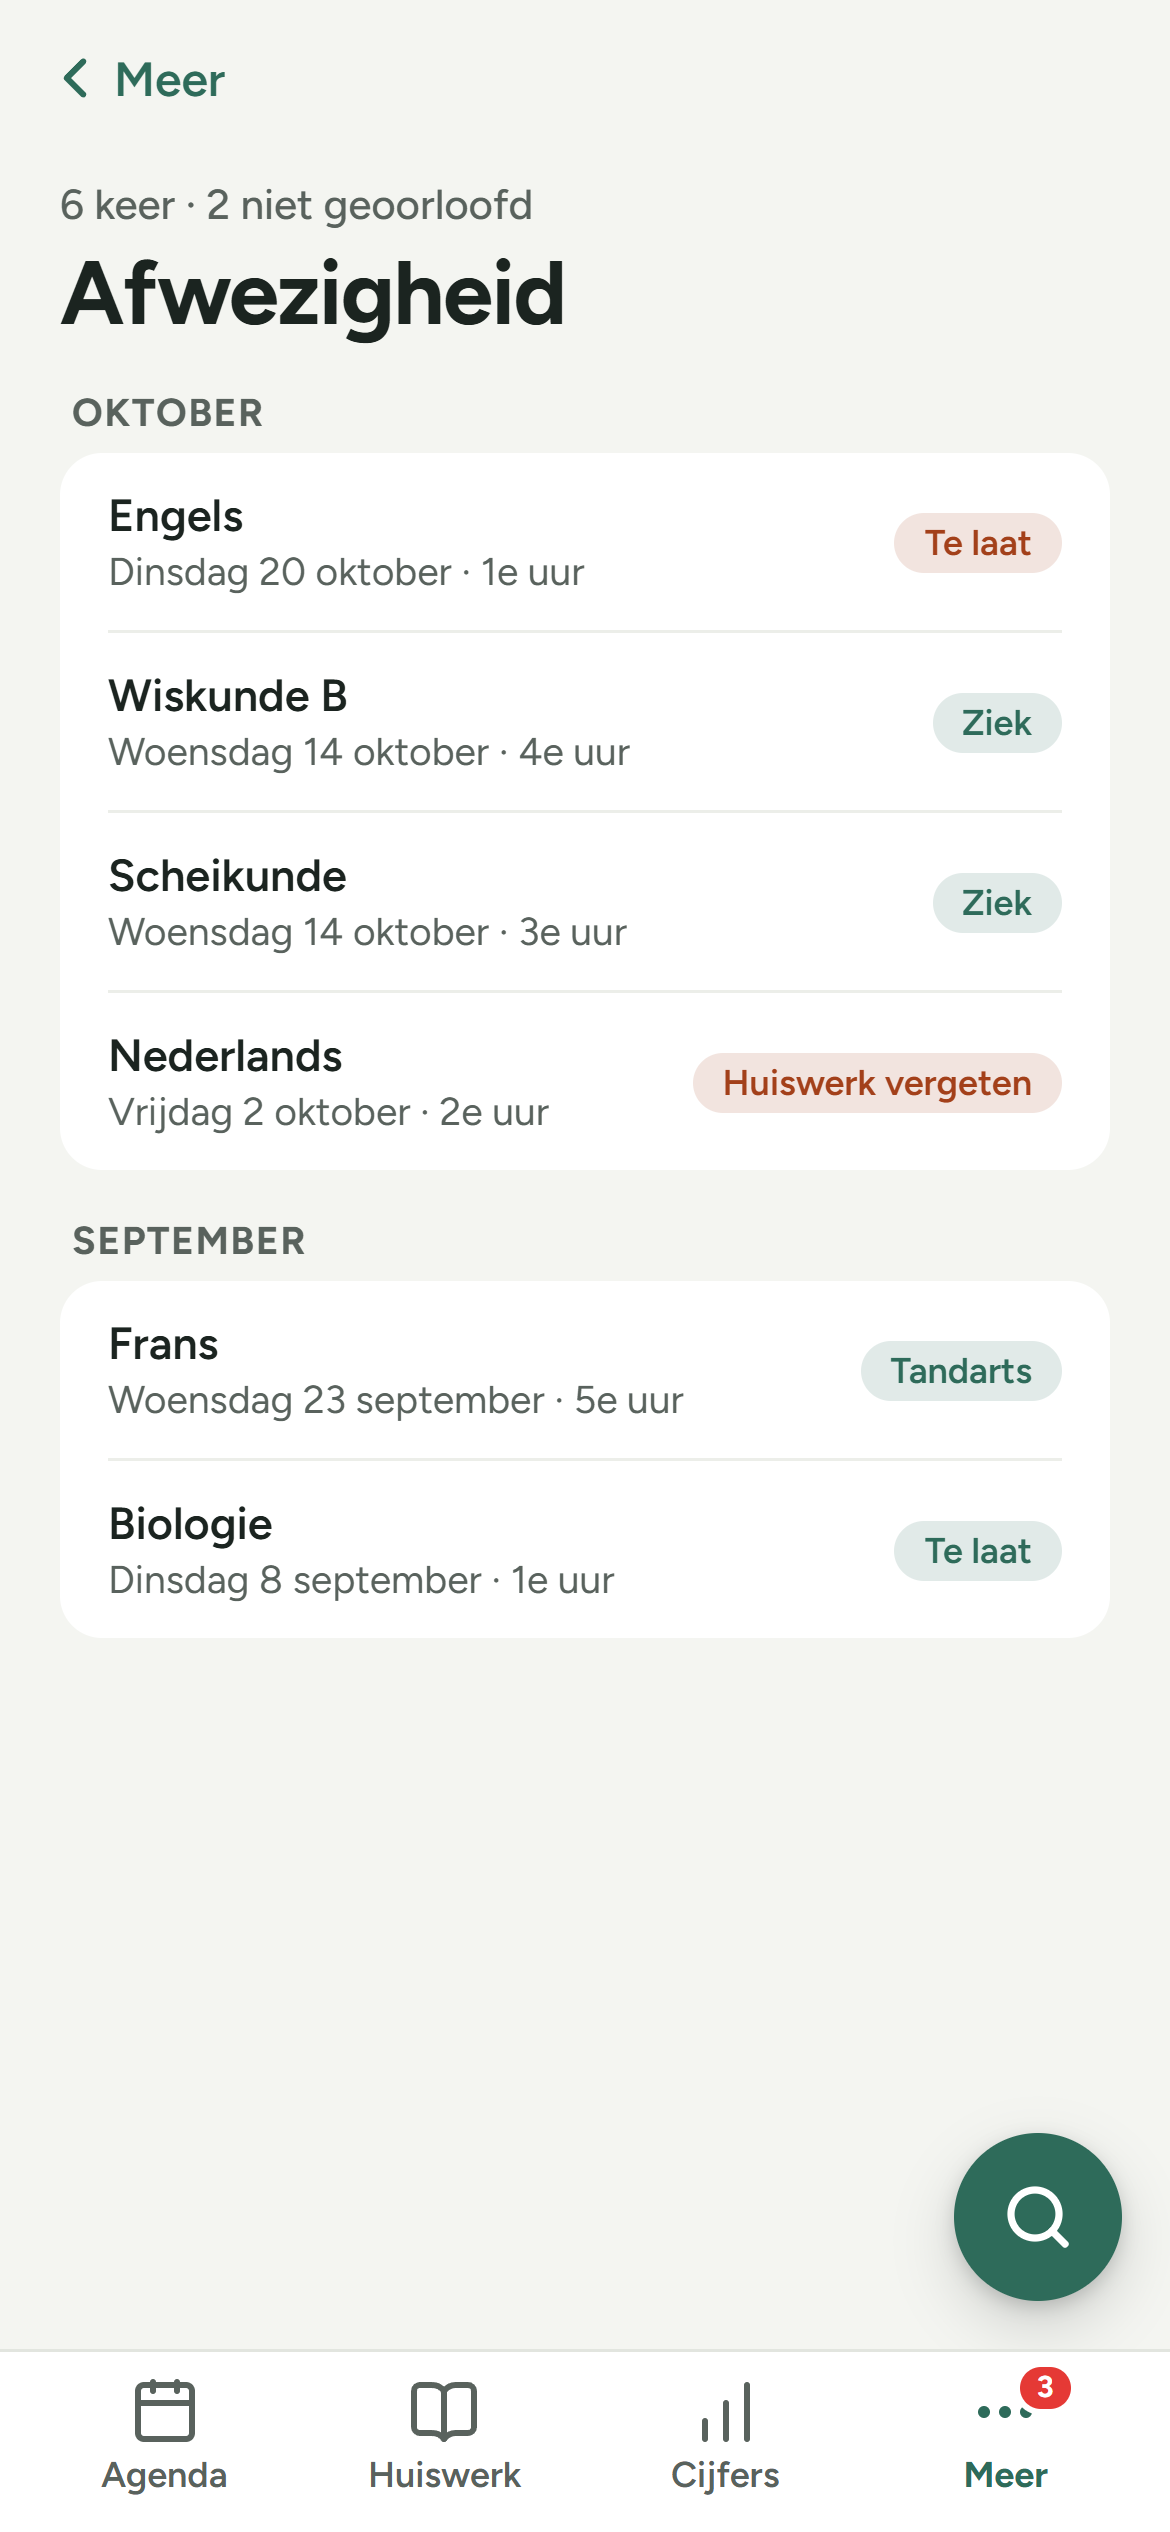
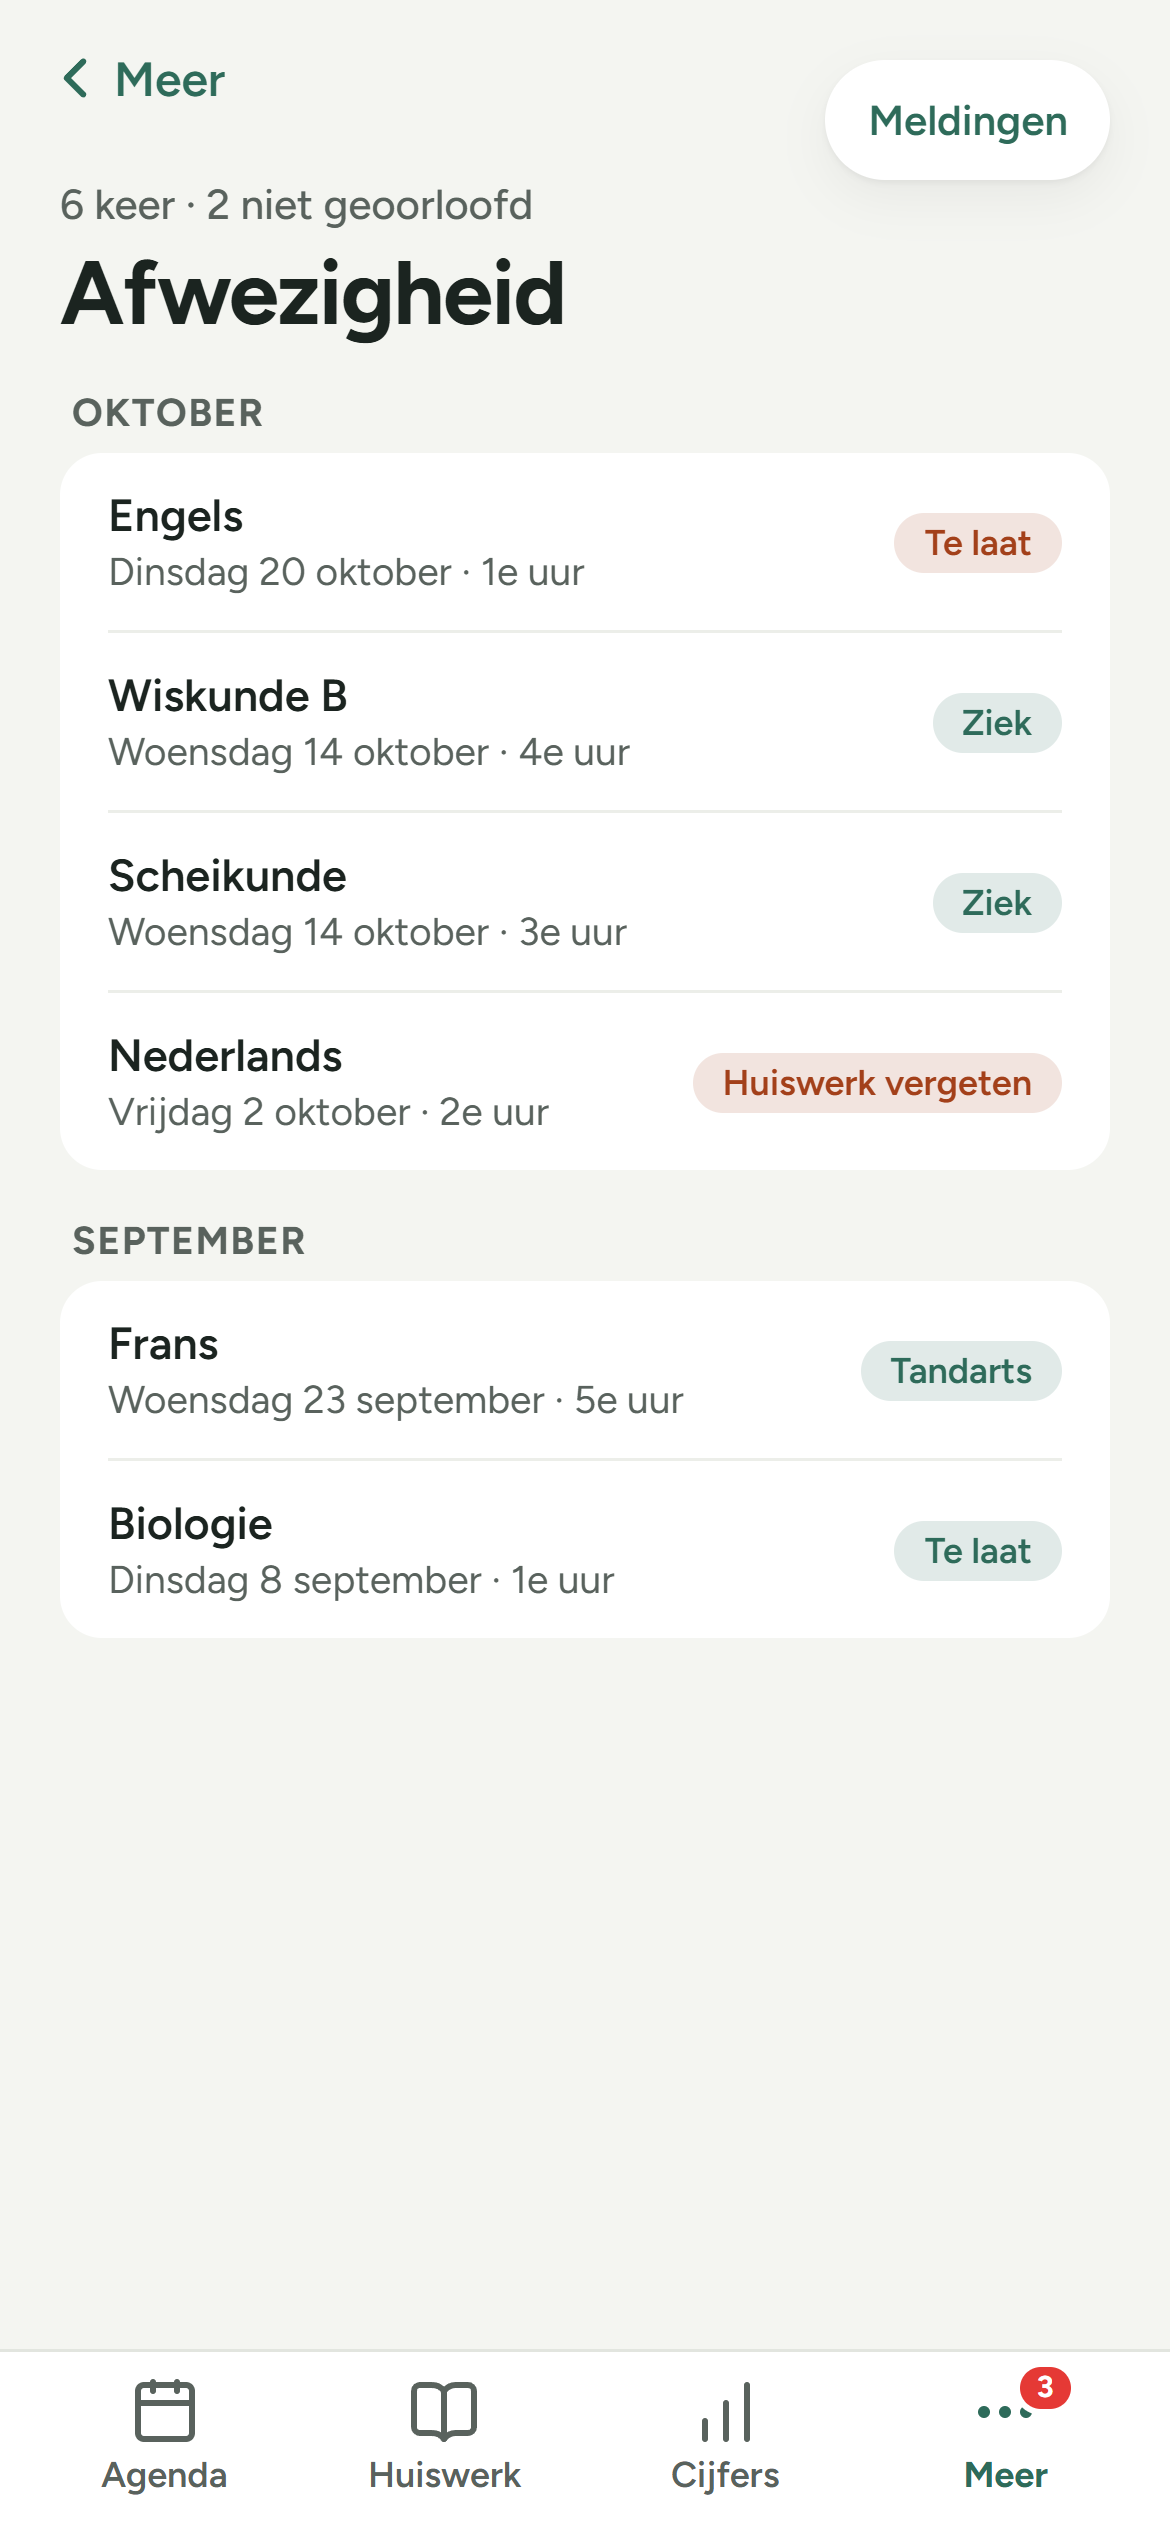
Afwezigheid: Meldingen altijd rechtsboven; plusje rechtsonder alleen als je zelf mag melden

Changed region(s): [[0.8, 0.8424, 0.9846, 0.936], [0.7385, 0.0312, 0.8923, 0.0624]]

diff --git a/src/screens/Afwezigheid.tsx b/src/screens/Afwezigheid.tsx
@@ -1,5 +1,5 @@
 import { Link } from 'react-router-dom';
-import { Plus, Search } from 'lucide-react';
+import { Plus } from 'lucide-react';
 import { api, type Afwezigheid as AfwezigheidT } from '../api';
 import { AfwezigheidRij } from '../components/afwezigheid/AfwezigheidRij';
 import { OfflineRegel } from '../components/ui/OfflineRegel';
@@ -24,9 +24,9 @@ function samenvatting(lijst: AfwezigheidT[]): string {
 /** Alle afwezigheden van dit schooljaar, per maand, nieuwste bovenaan. Alleen om te bekijken. */
 export function Afwezigheid() {
   const geladen = useLaden(() => api.afwezigheden(), []);
-  // De knop opent de meldingen. Mag je zelf melden, dan een plusje; kun je ze alleen bekijken, een loepje.
+  // Rechtsboven altijd "Meldingen"; mag dit account zelf afwezig melden, dan rechtsonder ook een plusje.
   const opties = useLaden(() => api.meldOpties(), []).data;
-  const magMelden = !!opties;
+  const magMelden = !!opties?.kanMelden;
   const lijst = [...(geladen.data?.data ?? [])].sort((a, b) => b.start.localeCompare(a.start));
 
   const perMaand = new Map<string, AfwezigheidT[]>();
@@ -41,6 +41,10 @@ export function Afwezigheid() {
     <div className="scherm">
       <div className="pagina pagina--met-terug gemiddeldes__kop">
         <TerugLink naar="/meer" label="Meer" />
+        {/* Rechtsboven, in dezelfde knop als "Overgang" bij Gemiddeldes. */}
+        <Link to="/meer/afwezigheid/melden" className="agendakop__vandaag agendakop__knoplink gemiddeldes__knop">
+          Meldingen
+        </Link>
         <PaginaKop titel="Afwezigheid" sub={geladen.data ? samenvatting(lijst) : ' '} />
         <OfflineRegel resultaat={geladen.data} />
       </div>
@@ -64,16 +68,8 @@ export function Afwezigheid() {
           </VegenOmTeVernieuwen>
         </div>
         {magMelden && (
-          <Link
-            to="/meer/afwezigheid/melden"
-            className="plusknop"
-            aria-label={opties.kanMelden ? 'Afwezigheid melden' : 'Meldingen bekijken'}
-          >
-            {opties.kanMelden ? (
-              <Plus size={26} strokeWidth={2.4} aria-hidden="true" />
-            ) : (
-              <Search size={24} strokeWidth={2.4} aria-hidden="true" />
-            )}
+          <Link to="/meer/afwezigheid/melden/nieuw" className="plusknop" aria-label="Afwezigheid melden">
+            <Plus size={26} strokeWidth={2.4} aria-hidden="true" />
           </Link>
         )}
       </div>
